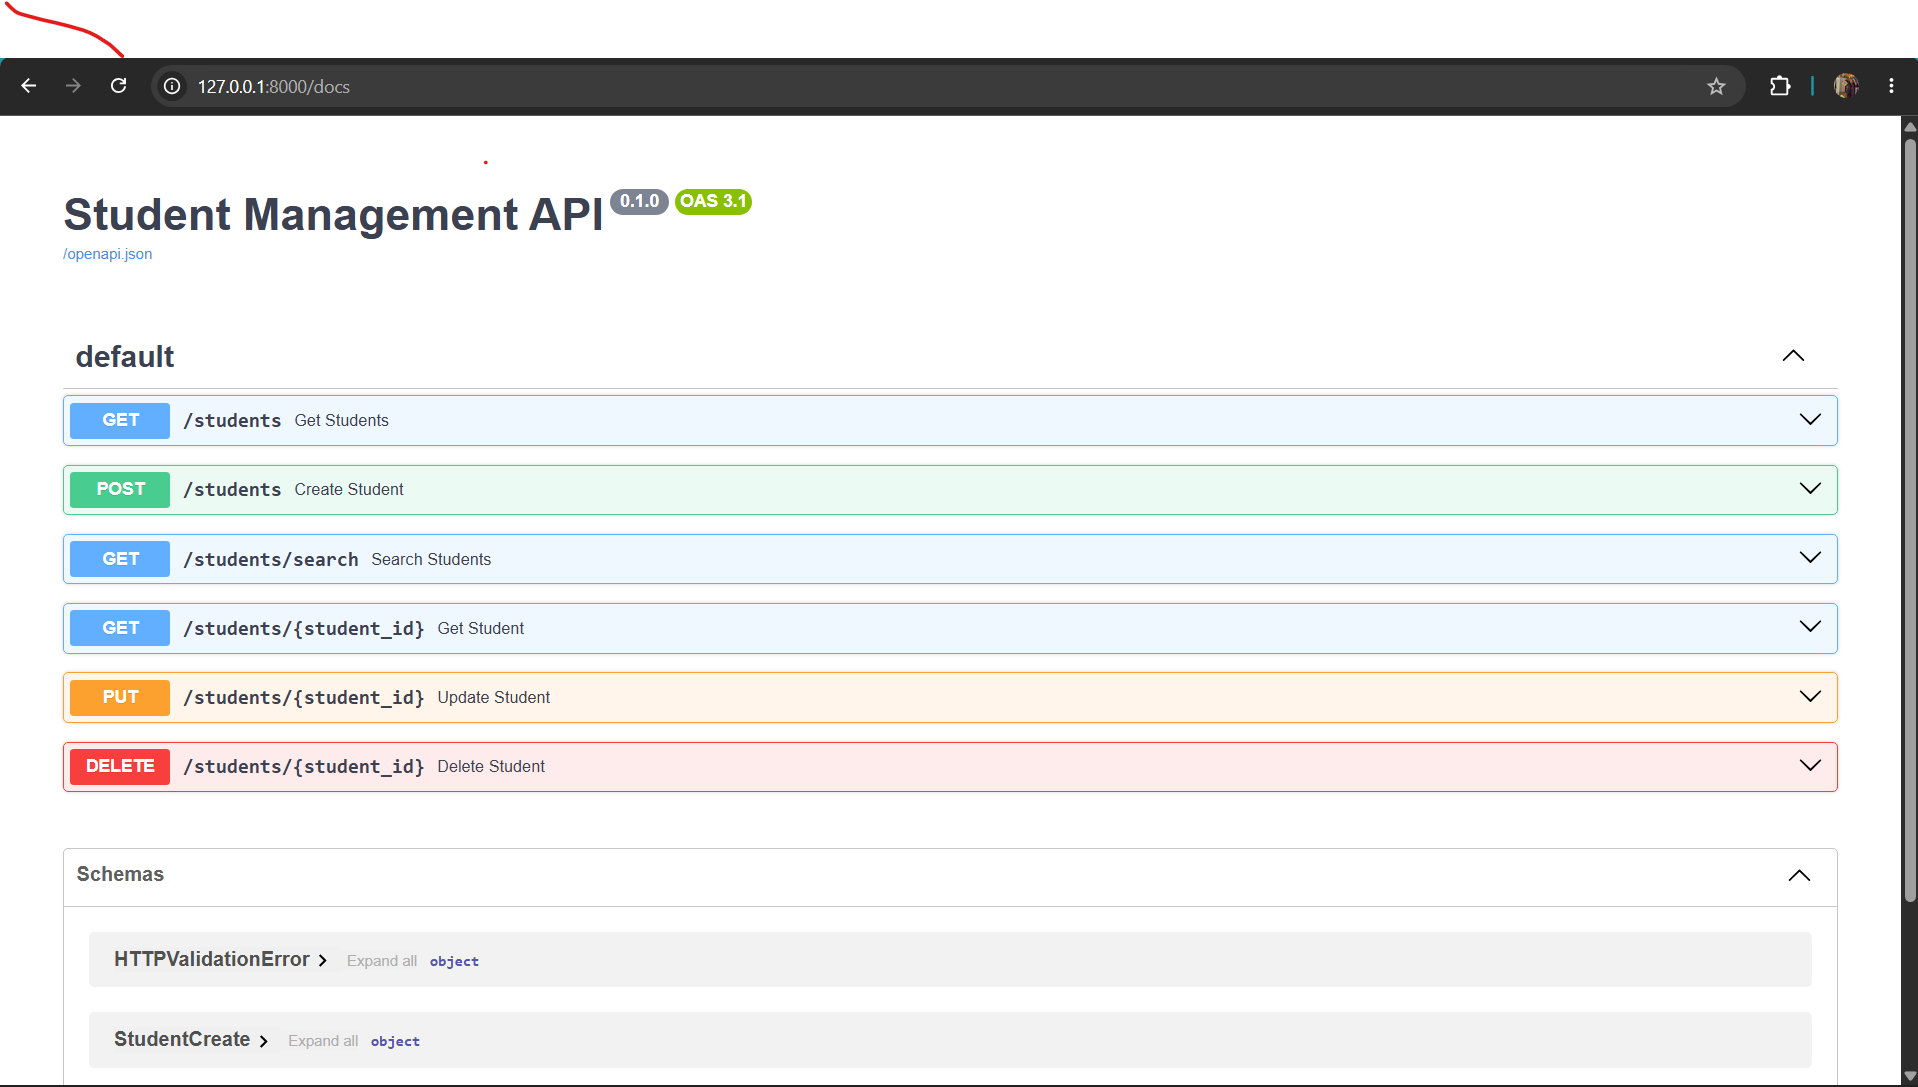
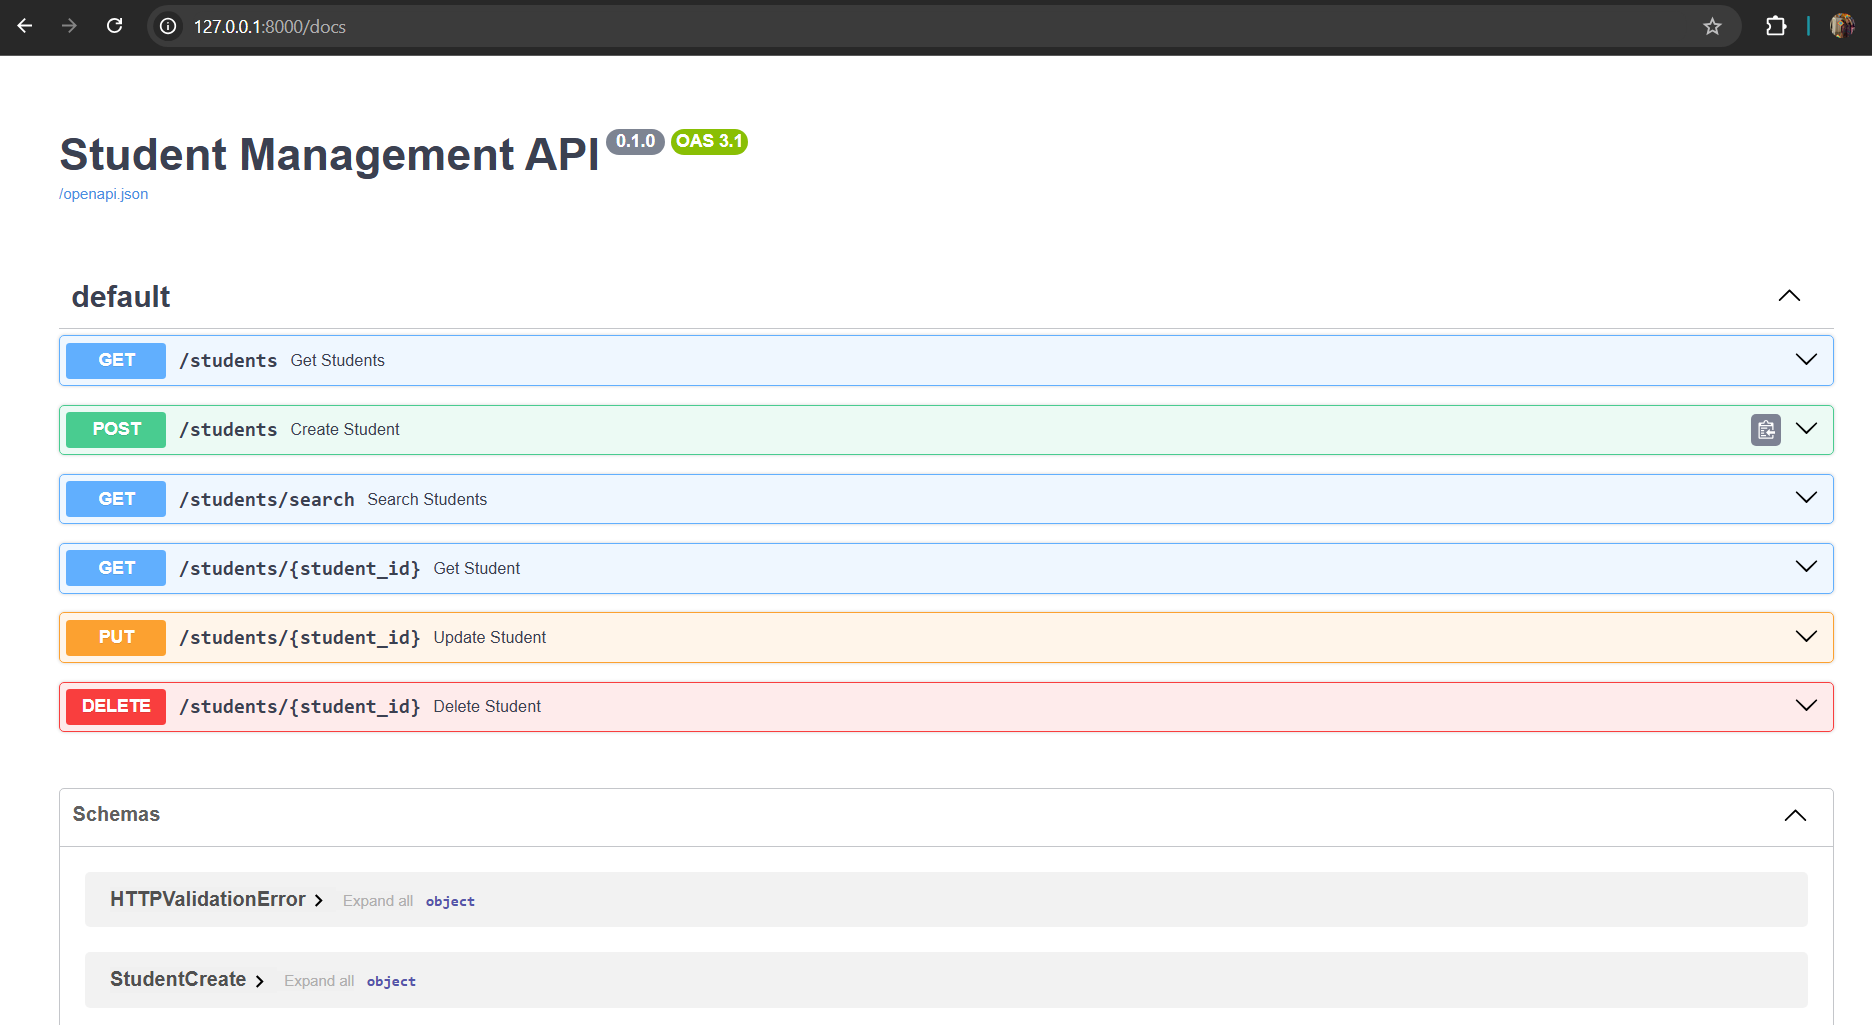
Update Swagger UI image link in README.md for correct display

diff --git a/README.md b/README.md
@@ -71,9 +71,9 @@ Once the server is running, visit:
 
 ## Swagger UI Preview
 
-```markdown
-![Swagger UI](https://raw.githubusercontent.com/ptirth2184/student-management-api-fastapi/main/screenshots/swagger-ui.png)
-```
+
+![Swagger UI](screenshots/swagger-ui.png)
+
 
 ## API Endpoints
 